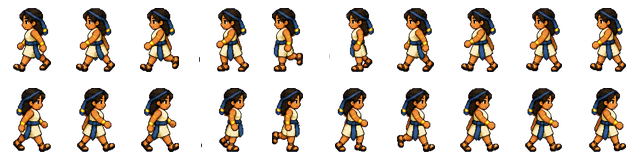
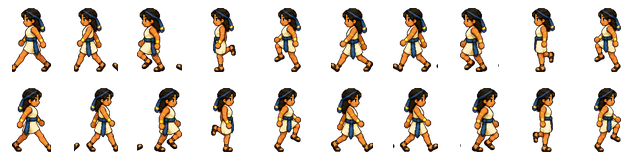
Match lateral walk to reference poses

diff --git a/tools/process_character_lateral_sheet.py b/tools/process_character_lateral_sheet.py
@@ -1,4 +1,4 @@
-"""Normalize the generated 10x2 lateral walk sheet into 64x80 Godot frames."""
+"""Normalize one 10-frame right-facing row and mirror it for left-facing motion."""
 
 from pathlib import Path
 
@@ -9,7 +9,8 @@ ROOT = Path(__file__).resolve().parents[1]
 SOURCE = ROOT / "godot/assets/generated/character/egyptian_worker_lateral_10frame_transparent.png"
 OUTPUT = ROOT / "godot/assets/generated/character/egyptian_worker_lateral_10frame_sheet.png"
 COLUMNS = 10
-ROWS = 2
+SOURCE_ROWS = 1
+OUTPUT_ROWS = 2
 FRAME_WIDTH = 64
 FRAME_HEIGHT = 80
 ART_SIZE = 64
@@ -18,25 +19,25 @@ FOOT_BASELINE = 72
 
 def main() -> None:
     source = Image.open(SOURCE).convert("RGBA")
-    output = Image.new("RGBA", (COLUMNS * FRAME_WIDTH, ROWS * FRAME_HEIGHT))
+    output = Image.new("RGBA", (COLUMNS * FRAME_WIDTH, OUTPUT_ROWS * FRAME_HEIGHT))
 
-    for row in range(ROWS):
-        top = round(row * source.height / ROWS)
-        bottom = round((row + 1) * source.height / ROWS)
-        for column in range(COLUMNS):
-            left = round(column * source.width / COLUMNS)
-            right = round((column + 1) * source.width / COLUMNS)
-            cell = source.crop((left, top, right, bottom))
-            bounds = cell.getbbox()
-            if bounds is None:
-                continue
-            sprite = cell.crop(bounds)
-            scale = min(ART_SIZE / sprite.width, ART_SIZE / sprite.height)
-            size = (round(sprite.width * scale), round(sprite.height * scale))
-            sprite = sprite.resize(size, Image.Resampling.LANCZOS)
+    for column in range(COLUMNS):
+        left = round(column * source.width / COLUMNS)
+        right = round((column + 1) * source.width / COLUMNS)
+        cell = source.crop((left, 0, right, source.height // SOURCE_ROWS))
+        bounds = cell.getbbox()
+        if bounds is None:
+            continue
+        sprite = cell.crop(bounds)
+        scale = min(ART_SIZE / sprite.width, ART_SIZE / sprite.height)
+        size = (round(sprite.width * scale), round(sprite.height * scale))
+        sprite = sprite.resize(size, Image.Resampling.LANCZOS)
+        for row, directional_sprite in enumerate(
+            (sprite.transpose(Image.Transpose.FLIP_LEFT_RIGHT), sprite)
+        ):
             x = column * FRAME_WIDTH + (FRAME_WIDTH - size[0]) // 2
             y = row * FRAME_HEIGHT + FOOT_BASELINE - size[1]
-            output.alpha_composite(sprite, (x, y))
+            output.alpha_composite(directional_sprite, (x, y))
 
     output.save(OUTPUT, optimize=True)
     print(f"Wrote {OUTPUT} ({output.width}x{output.height})")
